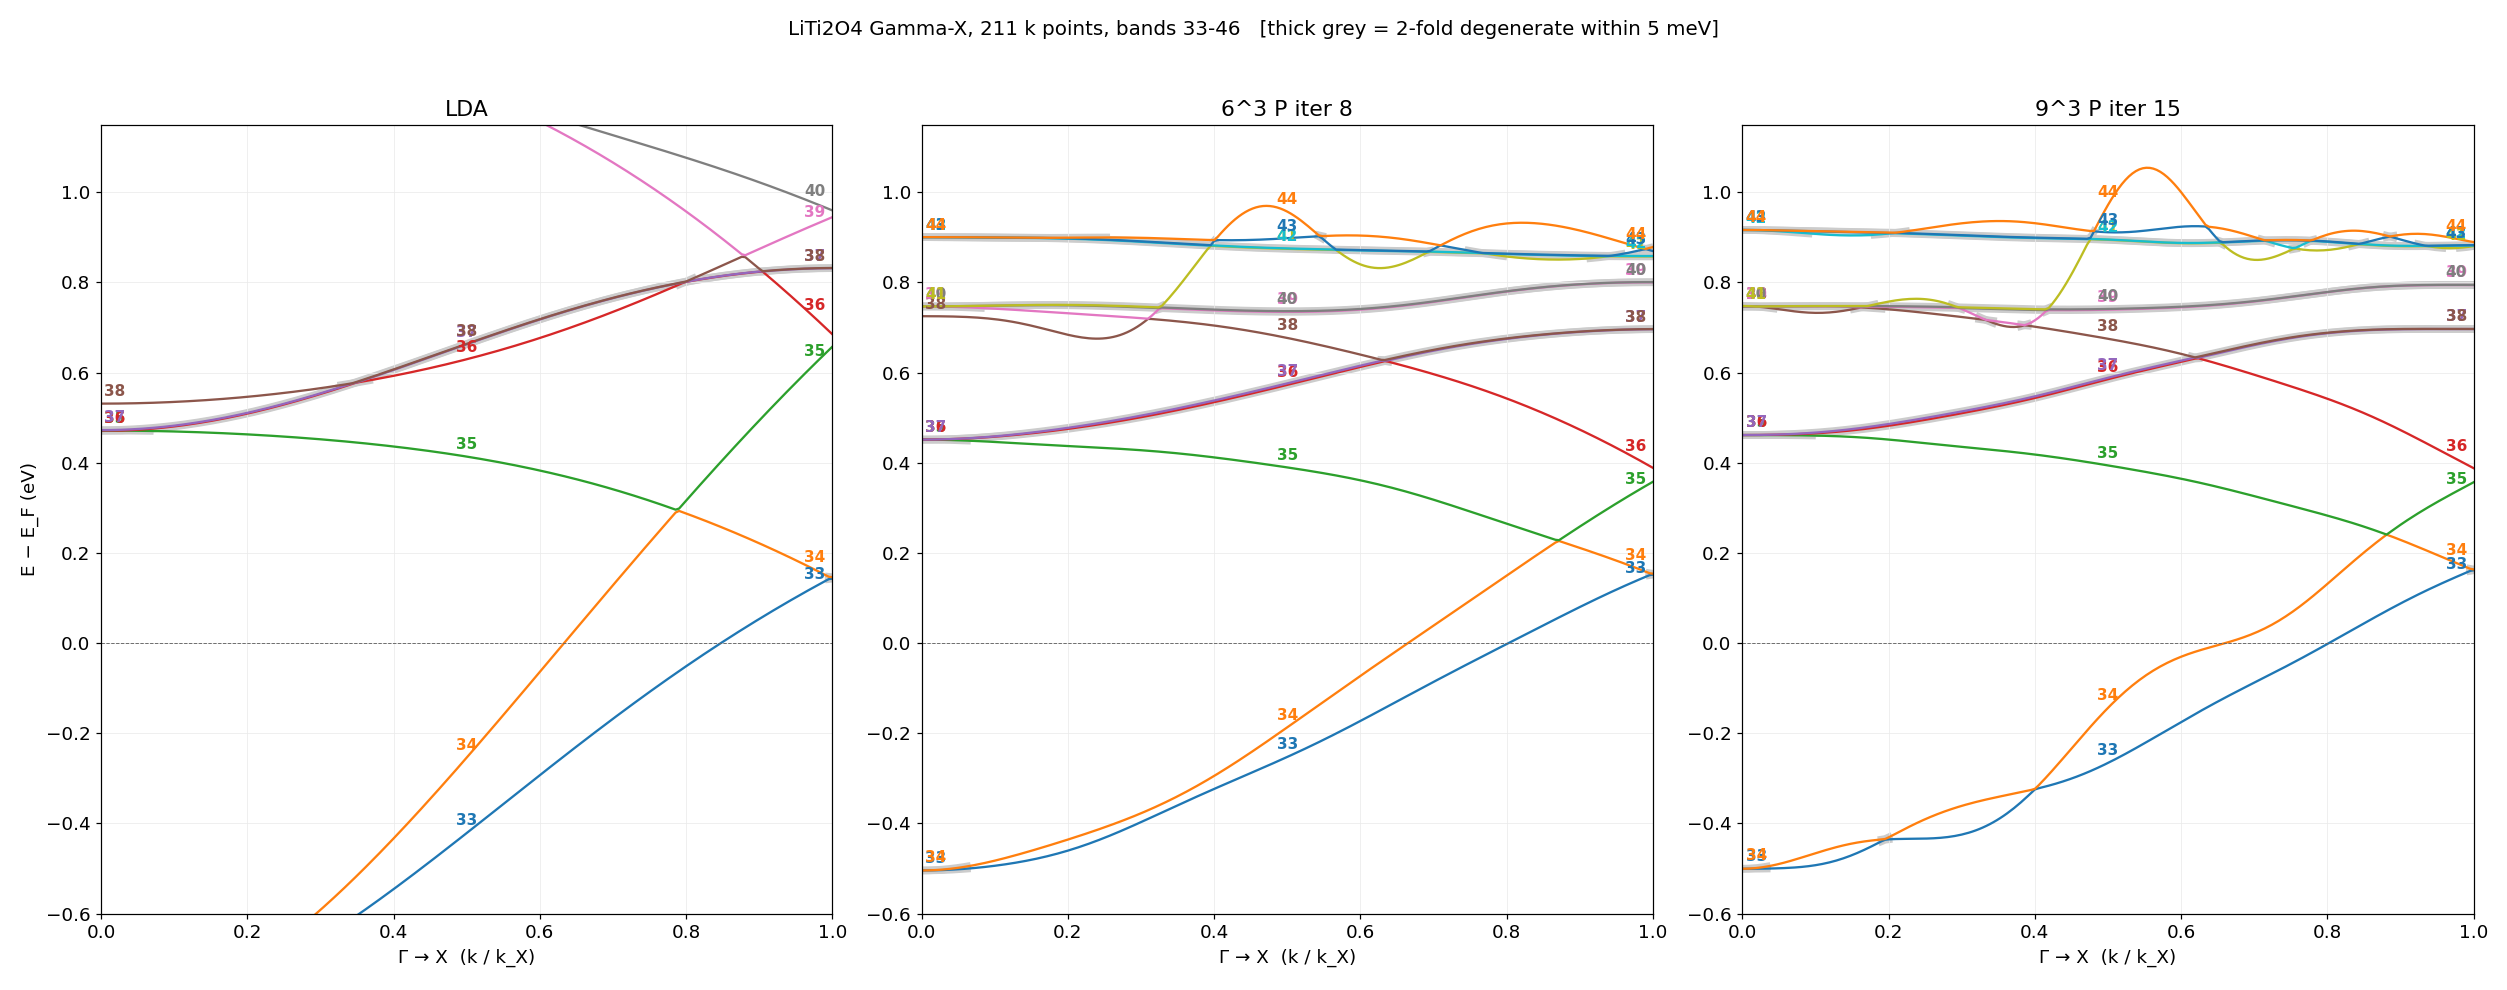
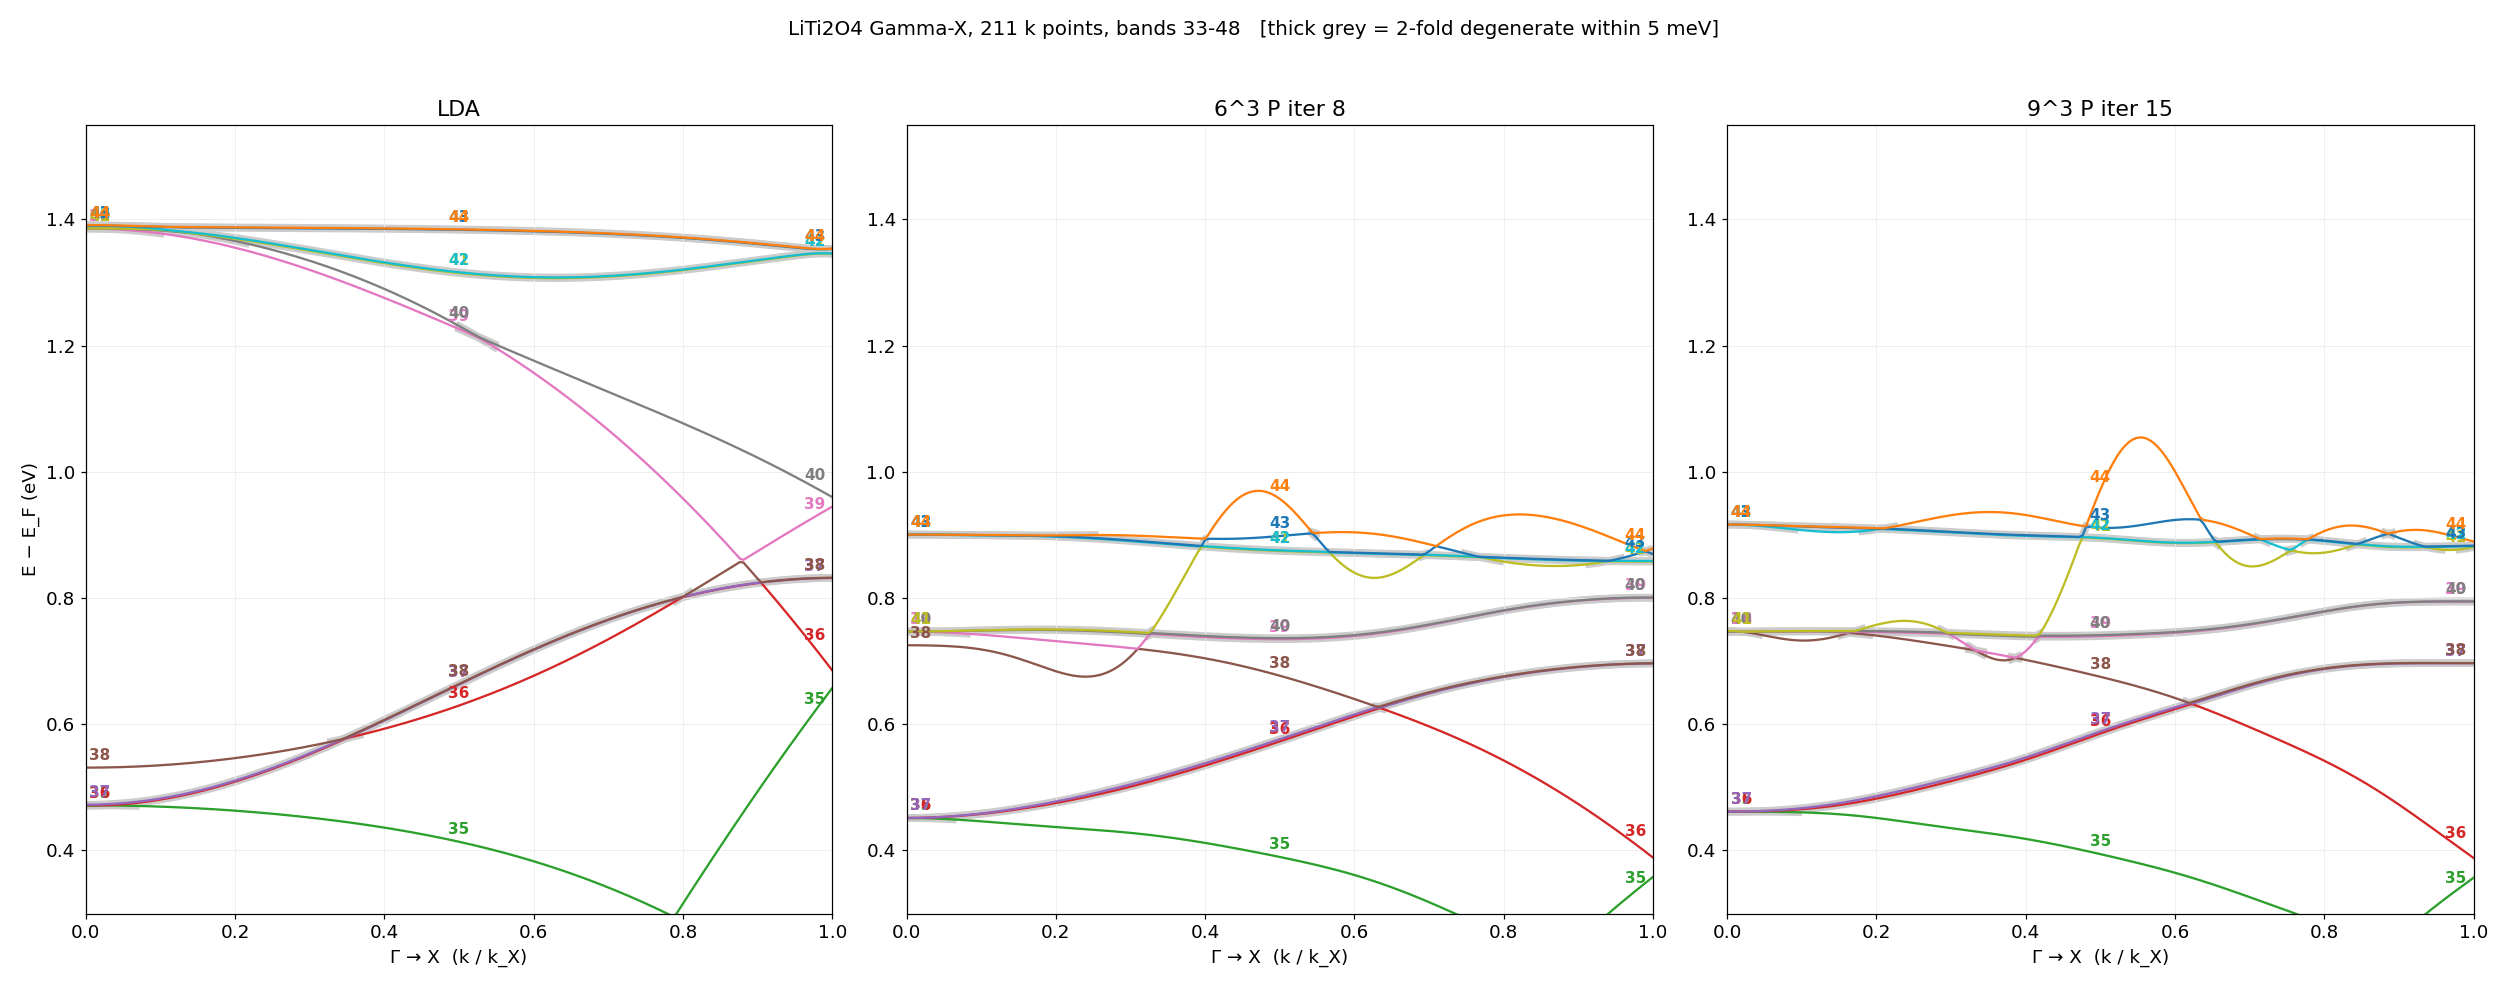
kBT: relabel traced branches by their energy order at k=0.10 so the same branch has the same label in all panels; widen both Gamma-X figures to the LDA range

diff --git a/Samples/kBT/LiTi2O4/trace_branches.py b/Samples/kBT/LiTi2O4/trace_branches.py
@@ -27,6 +27,9 @@ def trace(b, lo, hi):
         C=np.abs(pred[:,None]-E[i][None,:])         # cost branch x eigenvalue
         r,c=linear_sum_assignment(C)
         tr[i]=E[i][c]
+    # renumber branches by their energy at a generic k (x = 0.30), so that the same physical
+    # branch carries the same label in every panel (the label at Gamma is arbitrary inside a multiplet)
+    k0=int(0.10*(len(X)-1)); o=np.argsort(tr[k0]); tr=tr[:,o]
     return X, tr, ibs
 out,title=sys.argv[1],sys.argv[2]; ylo,yhi=float(sys.argv[3]),float(sys.argv[4])
 runs=[(sys.argv[i],sys.argv[i+1]) for i in range(5,len(sys.argv),2)]

diff --git a/Samples/kBT/kBT_research.md b/Samples/kBT/kBT_research.md
@@ -35,7 +35,10 @@
 
 ![Gamma-X traced branches](LiTi2O4/plots/GX_traced_lda_666_999.png)
 
-LDA の多重項（1.0〜1.45 eV）まで入る共通レンジ 0.30〜1.55 eV で描いたもの（user 13:35）:
+LDA の多重項（1.0〜1.45 eV）まで入る共通レンジ 0.30〜1.55 eV で描いたもの（user 13:35 / 13:45）。
+**枝の番号は「x = 0.10（Γ のすぐ外、Γ の多重縮退が解けた位置）でのエネルギー順」に付け直した**ので、
+3 枚のパネルで同じ番号が同じ枝を指す（9³ の大振動枝は br8 ではなく **br5**。以前の番号は追跡開始時の
+Γ での並び順で、Γ の縮退多重項の中では任意だったため 6³ と 9³ でずれていた。band-index 図も同じレンジに）。
 
 ![Gamma-X traced branches, wide range](LiTi2O4/plots/GX_traced_wide_lda_666_999.png)
 
